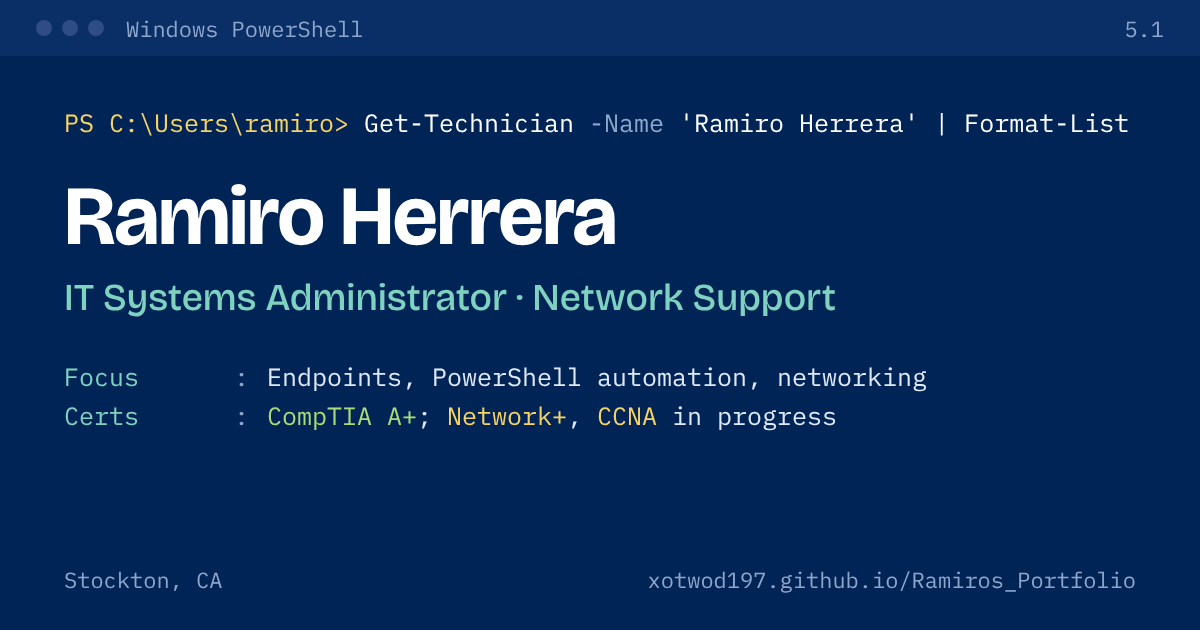
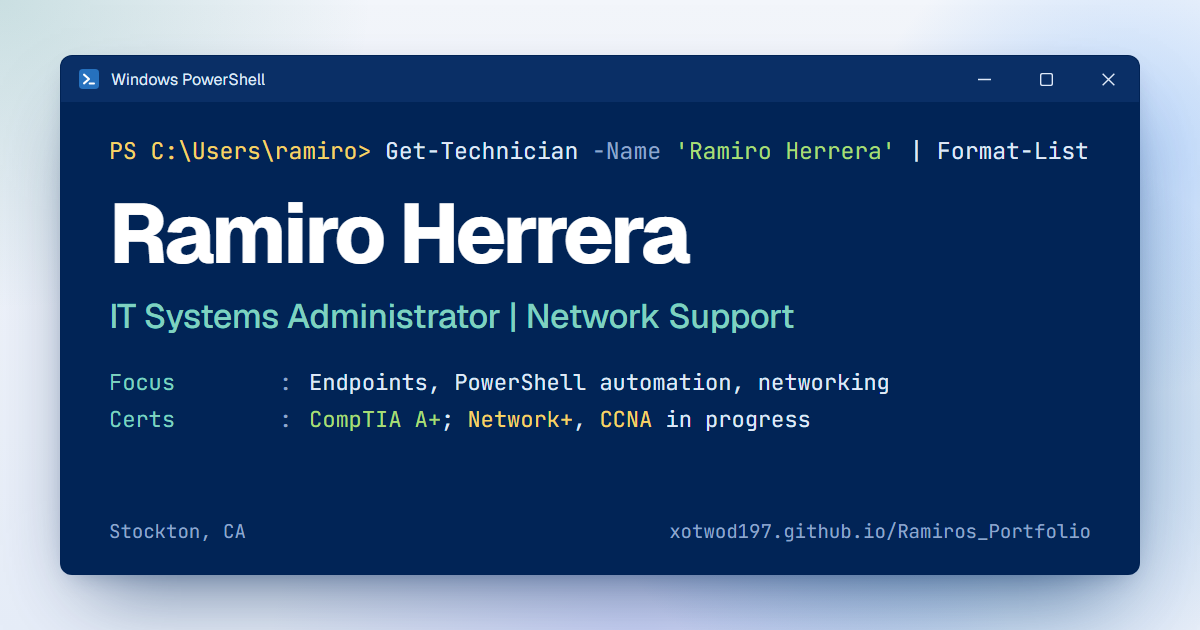
Windows 11 style share image

diff --git a/index.html b/index.html
@@ -14,12 +14,12 @@
 <meta property="og:description" content="Endpoint deployment, PowerShell automation, lab instrument support, and networking for a two-site manufacturer. CompTIA A+; Network+ and CCNA in progress. Stockton, CA.">
 <meta property="og:url" content="https://xotwod197.github.io/Ramiros_Portfolio/">
 <link rel="canonical" href="https://xotwod197.github.io/Ramiros_Portfolio/">
-<meta property="og:image" content="https://xotwod197.github.io/Ramiros_Portfolio/og-image.png">
+<meta property="og:image" content="https://xotwod197.github.io/Ramiros_Portfolio/og-image.png?v=20261016">
 <meta property="og:image:width" content="1200">
 <meta property="og:image:height" content="630">
 <meta property="og:image:alt" content="Ramiro Herrera, IT Systems Administrator and Network Support, shown in a PowerShell console">
 <meta name="twitter:card" content="summary_large_image">
-<meta name="twitter:image" content="https://xotwod197.github.io/Ramiros_Portfolio/og-image.png">
+<meta name="twitter:image" content="https://xotwod197.github.io/Ramiros_Portfolio/og-image.png?v=20261016">
 <meta name="twitter:image:alt" content="Ramiro Herrera, IT Systems Administrator and Network Support, shown in a PowerShell console">
 <meta name="twitter:title" content="Ramiro Herrera — IT Systems Administrator | Network Support">
 <meta name="twitter:description" content="Endpoint deployment, PowerShell automation, lab instrument support, and networking. Stockton, CA.">

diff --git a/projects.html b/projects.html
@@ -14,12 +14,12 @@
 <meta property="og:description" content="Endpoint deployment, PowerShell automation, lab instrument support, and networking for a two-site manufacturer. CompTIA A+; Network+ and CCNA in progress. Stockton, CA.">
 <meta property="og:url" content="https://xotwod197.github.io/Ramiros_Portfolio/projects.html">
 <link rel="canonical" href="https://xotwod197.github.io/Ramiros_Portfolio/projects.html">
-<meta property="og:image" content="https://xotwod197.github.io/Ramiros_Portfolio/og-image.png">
+<meta property="og:image" content="https://xotwod197.github.io/Ramiros_Portfolio/og-image.png?v=20261016">
 <meta property="og:image:width" content="1200">
 <meta property="og:image:height" content="630">
 <meta property="og:image:alt" content="Ramiro Herrera, IT Systems Administrator and Network Support, shown in a PowerShell console">
 <meta name="twitter:card" content="summary_large_image">
-<meta name="twitter:image" content="https://xotwod197.github.io/Ramiros_Portfolio/og-image.png">
+<meta name="twitter:image" content="https://xotwod197.github.io/Ramiros_Portfolio/og-image.png?v=20261016">
 <meta name="twitter:image:alt" content="Ramiro Herrera, IT Systems Administrator and Network Support, shown in a PowerShell console">
 <meta name="twitter:title" content="Projects — Ramiro Herrera">
 <meta name="twitter:description" content="Endpoint deployment, PowerShell automation, lab instrument support, and networking. Stockton, CA.">

diff --git a/CLAUDE.md b/CLAUDE.md
@@ -32,7 +32,7 @@ branch `main`, root folder. **Live:** https://xotwod197.github.io/Ramiros_Portfo
 | `site.css` | Shared stylesheet for both pages — design tokens, layout, motion, print rules. |
 | `glass.css` | Windows 11 (Fluent) glass layer loaded after `site.css` on both pages — wallpaper, frosted panels, rounded/pill shapes. |
 | `ramiro-herrera-resume.pdf` | Downloadable résumé, **regenerated from `index.html#resume`** whenever the résumé changes so the two never drift. Linked next to the Print / Save as PDF button. |
-| `og-image.png` | 1200×630 share preview. |
+| `og-image.png` | 1200×630 share preview, Windows 11 style (PowerShell window on bloom wallpaper). |
 | `images/` | Profile photo + project screenshots (`.webp` preferred). No duplicate image files. |
 | `.github/screenshots/` | Before/after shots used in PR descriptions only. |
 | `README.md` | Public description of the site, files, editing and deployment. |
@@ -117,6 +117,10 @@ branch `main`, root folder. **Live:** https://xotwod197.github.io/Ramiros_Portfo
 ## Changelog (newest first)
 
 ### 2026-10-16 (home PC via Claude, Projects)
+- Share image `og-image.png` redone in the Windows 11 style: bloom wallpaper behind a Windows
+  PowerShell window (minimize / maximize / close), name, headline, focus, certs, site URL.
+  `og:image` / `twitter:image` URLs now end in `?v=YYYYMMDD` so LinkedIn and others refetch;
+  bump it whenever the image changes.
 - Windows 11 restyle (approved from a preview in `Documents\Websites\Portfolio-windows-preview\`):
   console title bar now Windows PowerShell with minimize / maximize / close instead of Mac dots;
   bloom-blue wallpaper, 12px Fluent corners, Windows 11 Settings-style nav indicator. Changed
